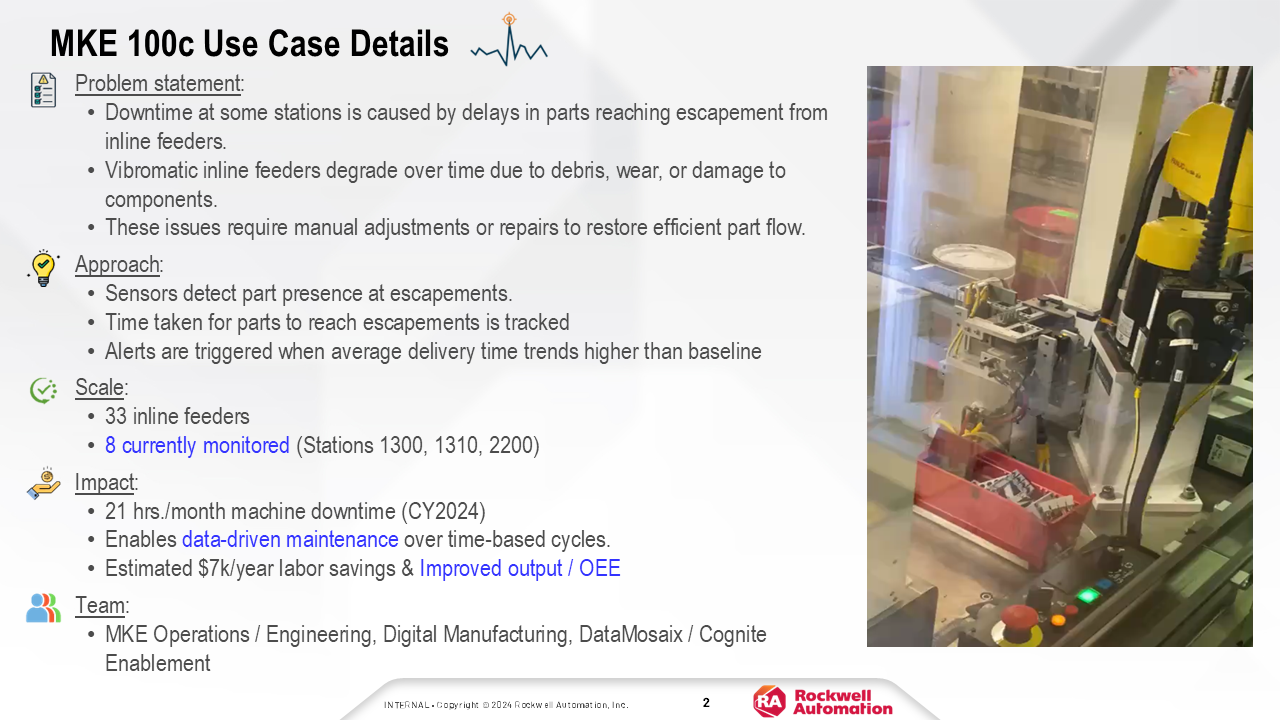
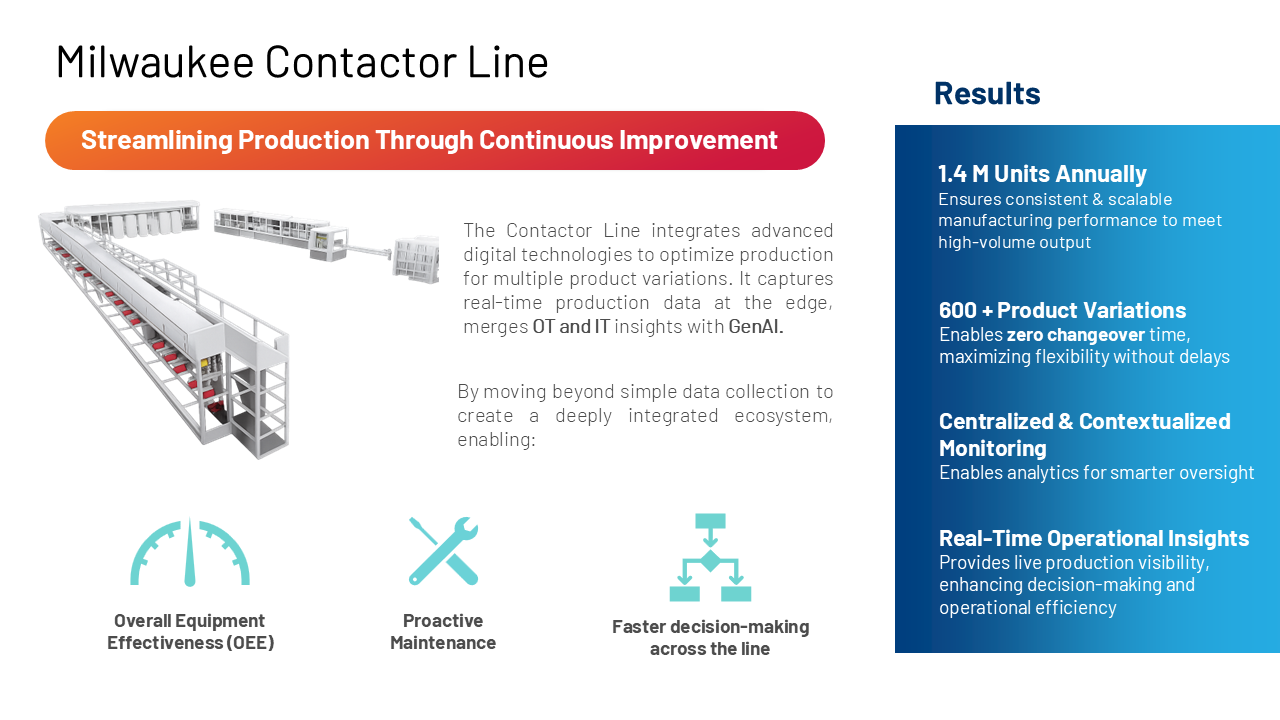
modal overview

diff --git a/src/components/LaunchpadSections/Overview2.tsx b/src/components/LaunchpadSections/Overview2.tsx
@@ -3,6 +3,14 @@ import Footer from '../Footer/Footer';
 import { ChevronLeft, ChevronRight, Zap, Database, Globe, Cpu, Award } from 'lucide-react';
 import { animateScroll as scroll } from 'react-scroll';
 
+const Modal: React.FC<{ title: string }> = ({ title }) => {
+    return (
+        <div className="modal">
+            <h2>{title}</h2>
+        </div>
+    );
+};
+
 
 interface OverviewProps {
   handleSectionChange?: (section: string) => void;
@@ -22,6 +30,36 @@ interface SectionData {
 }
 
 const ScalableDigitalSolutions: React.FC<{ title: string; imageSrc: string; points: { label: React.ReactNode }[] }> = ({ title, imageSrc, points }) => {
+    const [isModalOpen, setIsModalOpen] = useState(false);
+    const [selectedPoint, setSelectedPoint] = useState<number | null>(null);
+
+    const circleData = {
+        0: { title: 'Discover and Assess', description: 'The first step in this journey is to analyze the business impact and opportunities, including where the organization is today and the results needed to achieve tomorrow.' },
+        1: { 
+            title: 'Edge to Cloud Enablement', 
+            description: <>
+                At Kalypso we combined vision and technology to deliver Industrial IoT technical expertise and delivery capability.
+                <br /><br />
+                We started with a proof-of-value at Milwaukee’s 100C contactor line where we collected, analyzed and pushed data to the Cloud using OptixEdge Advanced Edge Gateway and FactoryTalk Optix.
+            </> 
+        },
+        2: { title: 'Enterprise IT/OT Convergence', description: 'Details about Enterprise IT/OT Convergence.' },
+        3: { title: 'AI Readiness Strategy', description: 'Details about AI Readiness Strategy.' },
+        4: { title: 'Industrial DataOps + AI Implementation', description: 'Details about Industrial DataOps + AI Implementation.' },
+        5: { title: 'Global Scale-Up', description: 'Details about Global Scale-Up.' },
+    };
+
+    const closeModal = () => {
+        setIsModalOpen(false);
+        setSelectedPoint(null);
+    };
+
+    const handleModalBackdropClick = (e: React.MouseEvent) => {
+        if (e.target === e.currentTarget) {
+            closeModal();
+        }
+    };
+
     return (
         <>
             <div className="grid grid-cols-1 sm:grid-cols-2 lg:grid-cols-3 xl:gap-8 gap-8 justify-items-center">
@@ -29,7 +67,8 @@ const ScalableDigitalSolutions: React.FC<{ title: string; imageSrc: string; poin
                     <div key={idx} className="relative flex flex-col items-center justify-center flex-shrink-0">
                         <div
                             onClick={() => {
-                                // Implement modal logic here
+                                setIsModalOpen(true);
+                                setSelectedPoint(idx);
                             }}
                             className="
                             circle flex items-center justify-center rounded-full shadow-lg
@@ -60,9 +99,88 @@ const ScalableDigitalSolutions: React.FC<{ title: string; imageSrc: string; poin
                     </div>
                 ))}
             </div>
+
+            {isModalOpen && selectedPoint !== null && (
+                <div 
+                    className="absolute top-0 left-0 right-0 bottom-0 flex items-center justify-center p-4 bg-black/50"
+                    onClick={handleModalBackdropClick}
+                    style={{
+                        margin: 0,
+                        width: '100%',
+                        height: '100vh',
+                        zIndex: 9999999
+                    }}
+                >
+                    <style>
+                        {`
+                        body {
+                            overflow: hidden !important;
+                        }
+                        @keyframes modal-in {
+                            0% { opacity: 0; transform: scale(0.95);}
+                            100% { opacity: 1; transform: scale(1);}
+                        }
+                        .animate-modal-in {
+                            animation: modal-in 0.3s cubic-bezier(0.4,0,0.2,1);
+                        }
+                        `}
+                    </style>
+                    <div className="
+                        relative w-full max-w-4xl max-h-[90%] mx-auto mb-28
+                        transition-all duration-300
+                        scale-100 opacity-100
+                        animate-modal-in
+                    ">
+                        <div className="relative rounded-lg shadow-lg" style={{
+                            background: "white",
+                        }}>
+                            <div className="flex items-center justify-between p-4 md:p-5 border-b rounded-t border-gray-200">
+                                <h3 className="text-2xl font-semibold text-black">
+                                    {circleData[selectedPoint as keyof typeof circleData].title}
+                                </h3>
+                                <button 
+                                    type="button" 
+                                    className="text-gray-400 bg-transparent hover:text-white rounded-lg text-sm w-8 h-8 ms-auto inline-flex justify-center items-center" 
+                                    onClick={closeModal}
+                                >
+                                    <svg className="w-3 h-3" aria-hidden="true" xmlns="http://www.w3.org/2000/svg" fill="none" viewBox="0 0 14 14">
+                                        <path stroke="currentColor" strokeLinecap="round" strokeLinejoin="round" strokeWidth="2" d="m1 1 6 6m0 0 6 6M7 7l6-6M7 7l-6 6"/>
+                                    </svg>
+                                    <span className="sr-only">Close modal</span>
+                                </button>
+                            </div>
+                            <div className="p-6 md:p-8">
+                                {selectedPoint != 1 &&(
+                                    <div className="flex items-start gap-6 text-xl">
+                                        {circleData[selectedPoint as keyof typeof circleData].description}
+                                    </div>
+                                )}
+                                {selectedPoint === 0 && (
+                                    <div className="mt-4">
+                                        <img src="/discover.png" alt="Discover Illustration" className="max-w-full h-auto" />
+                                    </div>
+                                )}
+                                {selectedPoint === 1 && (
+                                    <div className="flex flex-row items-center mt-4">
+                                        <div className="w-3/4">
+                                            <p className="flex items-start gap-6 text-xl text-left">
+                                                {circleData[selectedPoint as keyof typeof circleData].description}
+                                            </p>
+                                        </div>
+                                        <div className="w-1/4 flex justify-center">
+                                            <img src="/pop1.png" alt="Enable Data Illustration" className="max-w-full h-auto" />
+                                        </div>
+                                    </div>
+                                )}
+                            </div>
+                        </div>
+                    </div>
+                </div>
+            )}
         </>
     );
 };
+
 
 const sections: SectionData[] = [
     {
@@ -70,8 +188,8 @@ const sections: SectionData[] = [
         title: 'Welcome to our Digital Core Solutions experience.',
         content: (
           <>
-            <h3 className="text-lg sm:text-xl md:text-3xl lg:text-4xl xl:text-5xl 2xl:text-6xl font-extrabold text-black mb-16">Welcome to our<br></br> Digital Scalable Solutions experience.</h3>  
-            <p className="text-base sm:text-lg md:text-xl lg:text-2xl xl:text-3xl 2xl:text-5xl max-w-md sm:max-w-lg md:max-w-xl lg:max-w-2xl xl:max-w-3xl 2xl:max-w-5xl font-light text-center mx-auto">
+            <h3 className="text-base sm:text-lg md:text-xl lg:text-2xl xl:text-3xl 2xl:text-5xl font-extrabold text-black mb-16 leading-loose">Welcome to our<br></br> Digital Scalable Solutions experience.</h3>  
+            <p className="text-sm sm:text-base md:text-lg lg:text-xl xl:text-2xl 2xl:text-4xl max-w-md sm:max-w-lg md:max-w-xl lg:max-w-2xl xl:max-w-3xl 2xl:max-w-5xl font-light text-center mx-auto leading-loose">
                 In just a few minutes, you will discover how we accelerated future innovation by investing in leveraging data and AI to empower engineers, reduce downtime, and optimize production for Rockwell Automation's 100C production line. 
             </p>
           </>
@@ -85,11 +203,11 @@ const sections: SectionData[] = [
         title: 'Enable Data',
         content: (
             <>
-                <h3 className="text-lg sm:text-xl md:text-3xl lg:text-4xl xl:text-5xl 2xl:text-7xl font-extrabold text-black mb-12 text-left" style={{ background: 'linear-gradient(180deg, #84e291, #21a1d3)', WebkitBackgroundClip: 'text', WebkitTextFillColor: 'transparent' }}>Enable Data</h3>
+                <h3 className="text-base sm:text-lg md:text-xl lg:text-2xl xl:text-3xl 2xl:text-5xl font-extrabold text-black mb-12 text-left leading-loose" style={{ background: 'linear-gradient(180deg, #84e291, #21a1d3)', WebkitBackgroundClip: 'text', WebkitTextFillColor: 'transparent' }}>Enable Data</h3>
                 <div className="flex flex-row items-center">
                   <div className='w-3/4'>
-                    <p className="text-base sm:text-lg md:text-xl lg:text-2xl xl:text-3xl 2xl:text-5xl max-w-md sm:max-w-lg md:max-w-xl lg:max-w-2xl xl:max-w-3xl 2xl:max-w-5xl font-light text-left aligning-left leading-relaxed">
-                        Every transformation journey starts with collecting the right information. <br></br><br></br> But data acquisition and monitoring are only the first steps.
+                    <p className="text-sm sm:text-base md:text-lg lg:text-xl xl:text-2xl 2xl:text-4xl max-w-md sm:max-w-lg md:max-w-xl lg:max-w-2xl xl:max-w-3xl 2xl:max-w-5xl font-light text-left aligning-left leading-loose">
+                        Every transformation journey starts with<br></br> collecting the right information. <br></br><br></br> But data acquisition and monitoring are<br></br> only the first steps.
                     </p>
                   </div>
                   <div className='w-1/4 flex justify-center'>
@@ -107,13 +225,13 @@ const sections: SectionData[] = [
         title: 'Contextualize',
         content: (
             <>
-                <h3 className="text-lg sm:text-xl md:text-3xl lg:text-4xl xl:text-5xl 2xl:text-7xl font-extrabold text-black mb-12 text-right" style={{ background: 'linear-gradient(180deg, #84e291, #21a1d3)', WebkitBackgroundClip: 'text', WebkitTextFillColor: 'transparent' }}>Contextualize</h3>
+                <h3 className="text-base sm:text-lg md:text-xl lg:text-2xl xl:text-3xl 2xl:text-5xl font-extrabold text-black mb-12 text-right leading-loose" style={{ background: 'linear-gradient(180deg, #84e291, #21a1d3)', WebkitBackgroundClip: 'text', WebkitTextFillColor: 'transparent' }}>Contextualize</h3>
                 <div className="flex flex-row items-center">
                   <div className='w-1/4 flex justify-center'>
                       <img src="/image4.png" alt="Contextualize Illustration" className="max-w-full h-auto" />
                   </div>
                   <div className='w-3/4'>
-                    <p className="text-base sm:text-lg md:text-xl lg:text-2xl xl:text-3xl 2xl:text-5xl max-w-md sm:max-w-lg md:max-w-xl lg:max-w-2xl xl:max-w-3xl 2xl:max-w-5xl font-light text-right aligning-left leading-relaxed">
+                    <p className="text-sm sm:text-base md:text-lg lg:text-xl xl:text-2xl 2xl:text-4xl max-w-md sm:max-w-lg md:max-w-xl lg:max-w-2xl xl:max-w-3xl 2xl:max-w-5xl font-light text-right aligning-left leading-loose">
                         Bringing data from IT systems, visual media, manuals, engineering diagrams, and OT together to make data-driven decisions and react immediately. <br></br>But we wanted to go beyond being reactive.
                     </p>
                   </div>
@@ -129,10 +247,10 @@ const sections: SectionData[] = [
         title: 'Accelerate Innovation with AI',
         content: (
             <>
-                <h3 className="text-lg sm:text-xl md:text-3xl lg:text-4xl xl:text-5xl 2xl:text-7xl font-extrabold text-black mb-12 text-left" style={{ background: 'linear-gradient(180deg, #84e291, #21a1d3)', WebkitBackgroundClip: 'text', WebkitTextFillColor: 'transparent' }}>Accelerate Innovation with AI</h3>
+                <h3 className="text-base sm:text-lg md:text-xl lg:text-2xl xl:text-3xl 2xl:text-5xl font-extrabold text-black mb-12 text-left leading-loose" style={{ background: 'linear-gradient(180deg, #84e291, #21a1d3)', WebkitBackgroundClip: 'text', WebkitTextFillColor: 'transparent' }}>Accelerate Innovation with AI</h3>
                 <div className="flex flex-row items-center">
                   <div className='w-3/4'>
-                    <p className="text-base sm:text-lg md:text-xl lg:text-2xl xl:text-3xl 2xl:text-5xl max-w-md sm:max-w-lg md:max-w-xl lg:max-w-2xl xl:max-w-3xl 2xl:max-w-5xl font-light text-left aligning-left leading-relaxed">
+                    <p className="text-sm sm:text-base md:text-lg lg:text-xl xl:text-2xl 2xl:text-4xl max-w-md sm:max-w-lg md:max-w-xl lg:max-w-2xl xl:max-w-3xl 2xl:max-w-5xl font-light text-left aligning-left leading-loose">
                         The real value behind using data is in strategically applying AI and Machine Learning algorithms that leverage all that consolidated information to predict behavior and accelerate root cause analysis. <br></br>The engineering team can now proactively overcome challenges before they become a problem.
                     </p>
                   </div>
@@ -151,26 +269,25 @@ const sections: SectionData[] = [
         title: 'This is how we did it:',
         content: (
             <>
-            <div className="flex flex-col items-center justify-center h-full">
-                <p className="text-base sm:text-lg md:text-xl lg:text-2xl xl:text-2xl 2xl:text-5xl max-w-md sm:max-w-lg md:max-w-xl lg:max-w-2xl xl:max-w-3xl 2xl:max-w-5xl font-light leading-relaxed mb-4 text-center">
+                <p className="text-sm sm:text-base md:text-lg lg:text-xl xl:text-2xl 2xl:text-4xl max-w-md sm:max-w-lg md:max-w-xl lg:max-w-2xl xl:max-w-3xl 2xl:max-w-5xl font-light leading-relaxed mb-0 text-center">
                     With Kalypso, we've proven value and scaled up this initiative to deliver results across the Connected Enterprise.
                 </p>
-                <p className="sm:text-lg md:text-xl lg:text-xl xl:text-2xl 2xl:text-5xl max-w-md sm:max-w-lg md:max-w-xl lg:max-w-2xl xl:max-w-3xl 2xl:max-w-5xl font-bold leading-relaxed mb-4 text-center">
+                <br></br><br></br>
+                <p className="text-base sm:text-lg md:text-xl lg:text-2xl xl:text-3xl 2xl:text-5xl max-w-md sm:max-w-lg md:max-w-xl lg:max-w-2xl xl:max-w-3xl 2xl:max-w-5xl font-bold leading-loose mb-4 text-center">
                     This is how we did it:
                 </p>
                 <ScalableDigitalSolutions
                 title="Scalable Digital Solutions"
                 imageSrc="/bom.gif"
                 points={[
-                    { label: <>Discovery & Value<br />Assessment</> },
+                    { label: <>Discover and Assess</> },
                     { label: <>Edge to Cloud<br />Enablement</> },
                     { label: <>Enterprise IT/OT<br />Convergence</> },
                     { label: <>AI Readiness<br />Strategy</> },
                     { label: <>Industrial DataOps +<br />AI Implementation</> },
                     { label: <>Global<br />Scale-Up</> },
                 ]}
-            />
-            </div>
+                />
             </>
         ),
         color: 'white',
@@ -204,11 +321,11 @@ const ScrollableView: React.FC = () => {
                     width: 4px;
                 }
                 .custom-scrollbar::-webkit-scrollbar-thumb {
-                    background-color: #eaebebff; /* gray-300 */
+                    background-color: #eaebebff; 
                     border-radius: 4px;
                 }
                 .custom-scrollbar::-webkit-scrollbar-track {
-                    background-color: #f9fafb; /* gray-50 */
+                    background-color: #f9fafb;
                 }
             `}</style>
 

diff --git a/src/components/LaunchpadSections/Overview2.module.css b/src/components/LaunchpadSections/Overview2.module.css
@@ -1,0 +1,45 @@
+/* Modal styles */
+.modal-backdrop {
+    position: fixed;
+    top: 0;
+    left: 0;
+    width: 100%;
+    height: 100%;
+    z-index: 9999;
+    background: rgba(0, 0, 0, 0.5);
+}
+
+.modal-container {
+    position: fixed;
+    top: 50%;
+    left: 50%;
+    transform: translate(-50%, -50%);
+    z-index: 10000;
+    background: linear-gradient(90deg, #62CCEF 50px, #84E291 50%);
+    max-width: 90%;
+    max-height: 90%;
+    overflow: auto;
+    border-radius: 8px;
+    box-shadow: 0 4px 6px rgba(0, 0, 0, 0.1);
+}
+
+.modal-animation {
+    animation: modal-in 0.3s cubic-bezier(0.4, 0, 0.2, 1);
+}
+
+@keyframes modal-in {
+    0% {
+        opacity: 0;
+        transform: scale(0.95);
+    }
+    100% {
+        opacity: 1;
+        transform: scale(1);
+    }
+}
+
+/* Sidebar unaffected styles */
+.sidebar {
+    position: relative;
+    z-index: 1;
+}
